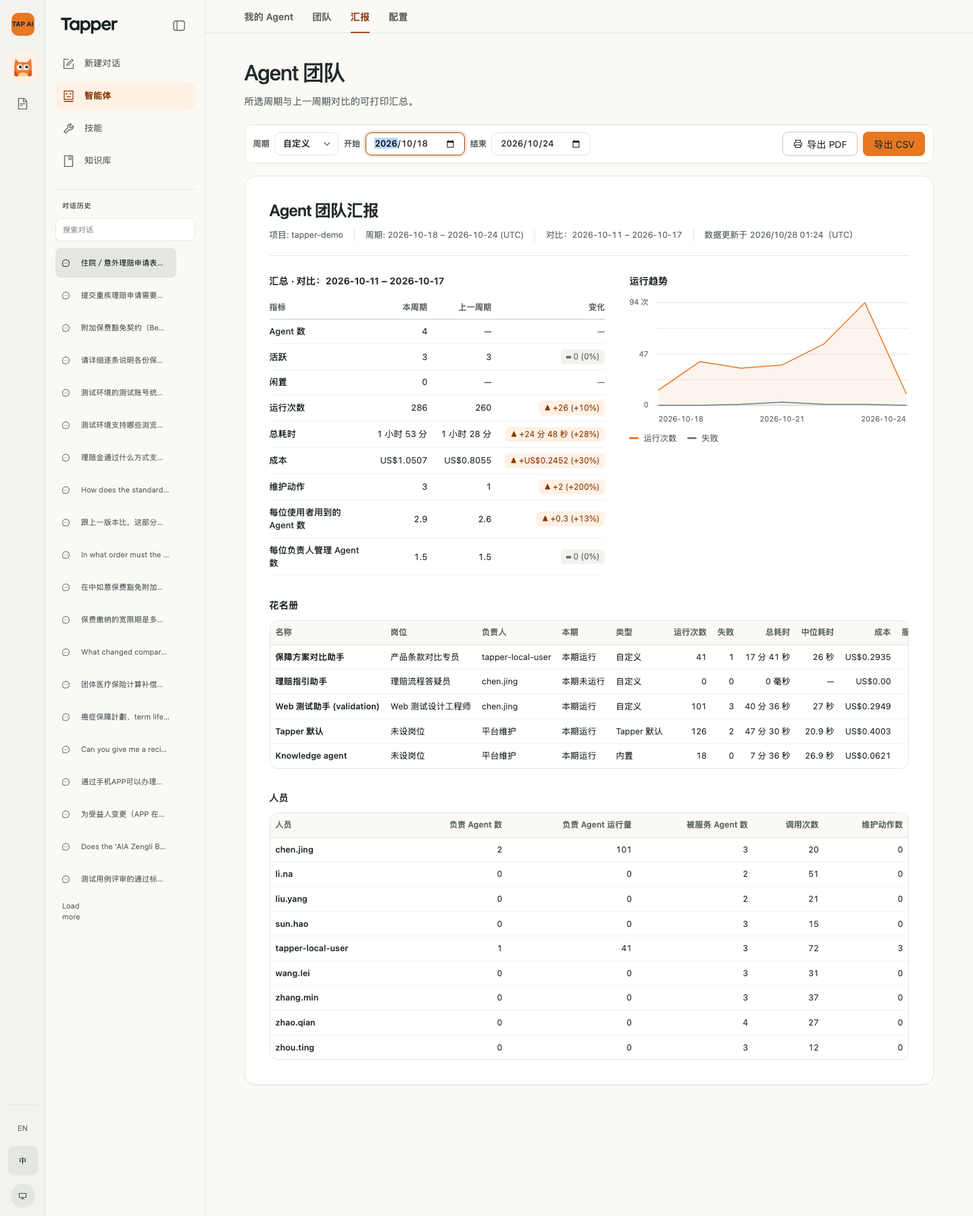
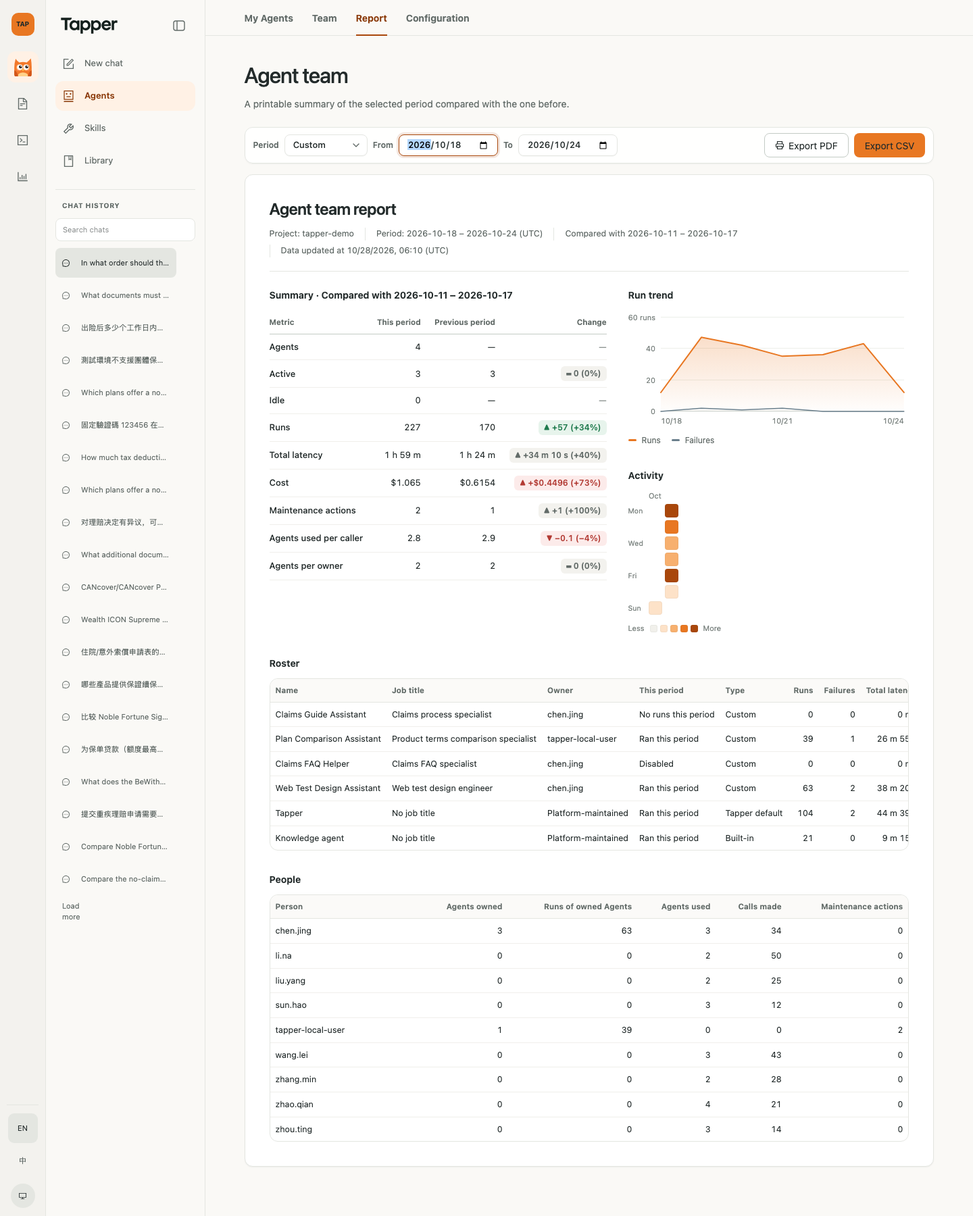
docs: record the agents dashboard redesign, tap shell and hong kong demo data

diff --git a/docs/guides/2026-10-28-agent-team-business-demo.md b/docs/guides/2026-10-28-agent-team-business-demo.md
@@ -1,92 +1,100 @@
 # Agent 团队视图业务流程演示
 
-创建日期：2026-10-28。归属[产品路线图](../superpowers/plans/2026-10-01-product-roadmap.md) V2.1。接续 [Agent 团队视图业务验证交接](2026-10-27-agent-team-business-validation-handoff.md)；口径以 [Agent 团队视图设计](../superpowers/specs/2026-10-22-agent-team-view-design.md)为准。
+创建日期：2026-10-28（当日两轮更新）。归属[产品路线图](../superpowers/plans/2026-10-01-product-roadmap.md) V2.1。接续 [Agent 团队视图业务验证交接](2026-10-27-agent-team-business-validation-handoff.md)；口径以 [Agent 团队视图设计](../superpowers/specs/2026-10-22-agent-team-view-design.md)为准。
 
-本文记录 2026-10-28 这一轮工作：对 V2.1 实现做一次完整审查，修复审查发现的问题，按"保持结构、重做视觉与交互"的方向重做 Agents 页界面，然后在本地演示环境用真实模型跑通完整业务流程，并留下实际页面截图。所有截图均来自 `make demo-dev`（`127.0.0.1:5173`）的真实页面，中文界面，1440 宽视口。
+本文记录 2026-10-28 的工作：对 V2.1 实现做一次完整审查并修复问题；按"分析平台风、浅色"重做 Agents 页面板；产品外壳改为 TAP 品牌与完整模块导航；演示库改为只用香港公开语料并重建验证数据；最后在本地演示环境用真实模型跑通完整业务流程。所有截图均来自 `make demo-dev`（`127.0.0.1:5173`）的真实页面，默认英文界面，1440 宽视口，左上角为 TAP 品牌，侧栏列出 Tapper、Test Management、Low Code Automation、Test Insights。
 
 ## 1. 业务流程演示
 
-演示角色：理赔团队负责人（演示身份 `tapper-local-user`）。目标：新建一个理赔答疑 Agent，让它服务一段时间，处理一条差评，把它交给同事，最后向管理层出一份周报。
+演示角色：理赔团队负责人（演示身份 `tapper-local-user`）。目标：用一个新的理赔答疑 Agent 替换旧的，让它服务一段时间，处理一条差评，把它交给同事，最后向管理层出一份周报。
 
-### 1.1 新建 Agent 并设置岗位
+### 1.1 新建 Agent，停用旧助手
 
-在"智能体 → 配置"新建 `理赔指引助手`，描述与系统提示词限定它只依据理赔指引与理赔表格作答。
+在 Agents → Configuration 新建 `Claims Guide Assistant`，描述与系统提示词限定它只依据理赔指引与理赔表格作答。
 
-![新建 Agent](../assets/agent-team-demo-2026-10-28/01-config-new-agent.png)
+![New agent](../assets/agent-team-demo-2026-10-28/01-config-new-agent.png)
 
-保存后切到"团队"标签，新成员立即出现在花名册，状态为"闲置"（还没有运行），负责人默认是创建人。
+同一页停用被替换的 `Claims FAQ Helper`，停用会写入一条"停用"维护动作。
 
-![新成员加入花名册](../assets/agent-team-demo-2026-10-28/02-team-card-joined.png)
+![Legacy helper disabled](../assets/agent-team-demo-2026-10-28/01b-config-legacy-disabled.png)
 
-打开档案的"设置"页填写岗位"理赔流程答疑员"，保存后有明确的成功提示。
+切到 Team，新成员立即出现在排行表，状态 Idle（还没有运行），负责人默认是创建人。
 
-![设置岗位](../assets/agent-team-demo-2026-10-28/03-profile-settings-job-title.png)
+![New member on the roster](../assets/agent-team-demo-2026-10-28/02-team-card-joined.png)
+
+打开档案的 Settings 填写岗位 "Claims process specialist"，保存后有成功提示。
+
+![Job title saved](../assets/agent-team-demo-2026-10-28/03-profile-settings-job-title.png)
 
 ### 1.2 用这个 Agent 对话并评价
 
-新建对话，选择 3 个理赔来源（理赔指引、重疾理赔表、住院／意外理赔表）和 `理赔指引助手`，提问"提交重疾理赔申请需要准备哪些材料？理赔金通过什么方式支付？"。真实模型（qwen-plus）返回带引用的回答，对第一轮点"没帮助"并留空说明。
+新建对话，选择 3 个理赔来源（理赔指引、重疾理赔表、住院／意外理赔表）和 `Claims Guide Assistant`，提问 "What documents must be submitted with a critical illness claim, and how is the claim benefit paid out?"。真实模型（qwen-plus）返回带引用的回答，对第一轮点 Not helpful。
 
-![第一轮回答并点差评](../assets/agent-team-demo-2026-10-28/04-chat-first-answer-not-helpful.png)
+![First answer rated not helpful](../assets/agent-team-demo-2026-10-28/04-chat-first-answer-not-helpful.png)
 
-第二轮追问"住院／意外理赔申请表的两个部分应该按什么顺序填写？分别由谁填写？"。
+第二轮追问 "In what order should the two parts of the hospital and accident claim form be completed, and who fills in each part?"。
 
-![第二轮回答](../assets/agent-team-demo-2026-10-28/05-chat-second-answer.png)
+![Second answer](../assets/agent-team-demo-2026-10-28/05-chat-second-answer.png)
 
-### 1.3 团队页看到产出
+### 1.3 团队面板看到产出
 
-回到"团队"：卡片显示周期内运行 2 次、服务人数 1、满意度"样本不足"（评分不足 10 条），最近运行时间来自运行数据。
+Team 页顶部是主指标卡（运行、失败、成本、总耗时、活跃）与变化徽章、按 Agent 堆叠的运行趋势、运行热力日历；下面是排行表、人员排行与组织架构图。
 
-![团队总览](../assets/agent-team-demo-2026-10-28/00-team-overview.png)
+![Team overview](../assets/agent-team-demo-2026-10-28/00-team-overview.png)
 
-![新 Agent 卡片](../assets/agent-team-demo-2026-10-28/06-team-card-after-runs.png)
+![Card view](../assets/agent-team-demo-2026-10-28/00b-team-cards.png)
 
-档案"工作量"页给出趋势、主指标与调用量：2 次运行、失败 0、中位耗时 17.7 秒、成本 US$0.0063、模型调用 8 次。
+新成员的行显示周期内运行 2 次、服务 1 人、满意度 "Not enough ratings"（评分不足 10 条）。
 
-![工作量](../assets/agent-team-demo-2026-10-28/07-profile-workload.png)
+![New agent after two runs](../assets/agent-team-demo-2026-10-28/06-team-card-after-runs.png)
+
+档案的 Basics 与 Workload 页给出入职日期、负责人、服务对象排行、指标卡、趋势与调用量。
+
+![Profile basics](../assets/agent-team-demo-2026-10-28/07a-profile-basic.png)
+
+![Profile workload](../assets/agent-team-demo-2026-10-28/07-profile-workload.png)
 
 ### 1.4 处理差评，履历留痕
 
-"待处理反馈"页列出那条差评（评价人、时间），填写处理说明"已补充理赔材料清单的条款引用，并要求逐条列出。"后标记已处理，待处理数归零。
+Pending feedback 页列出那条差评（评价人、时间），填写处理说明后 Mark as resolved，待处理数归零；History 页出现 "Feedback resolved" 与说明。
 
-![待处理反馈](../assets/agent-team-demo-2026-10-28/08-profile-pending-feedback.png)
+![Pending feedback](../assets/agent-team-demo-2026-10-28/08-profile-pending-feedback.png)
 
-![已处理](../assets/agent-team-demo-2026-10-28/09-profile-feedback-resolved.png)
+![Resolved](../assets/agent-team-demo-2026-10-28/09-profile-feedback-resolved.png)
 
-"履历"页出现"处理差评"动作与说明。
+![History](../assets/agent-team-demo-2026-10-28/10-profile-history.png)
 
-![履历](../assets/agent-team-demo-2026-10-28/10-profile-history.png)
+### 1.5 My Agents
 
-### 1.5 我的 Agent
+My Agents 把等我处理的反馈置顶，下面是我负责的 Agent 与为我服务的 Agent。
 
-"我的 Agent"把等我处理的反馈置顶，下面是我负责的 Agent 与为我服务的 Agent。
+![My Agents](../assets/agent-team-demo-2026-10-28/11-my-agents.png)
 
-![我的 Agent](../assets/agent-team-demo-2026-10-28/11-my-agents.png)
+### 1.6 排行表排序与组织架构图
 
-### 1.6 表格视图与组织架构图
+排行表按运行次数排序；人员排行列出每个人的调用量与负责、使用、维护数量。组织架构图按负责人分组，选中一个人后用虚线显示为其服务的 Agent。
 
-花名册切到表格，按运行次数排序；人员表列出每个人负责、使用与维护的数量。组织架构图按负责人分组，选中一个人后用虚线显示为其服务的 Agent。
+![Sorted table](../assets/agent-team-demo-2026-10-28/12-team-table-sorted.png)
 
-![表格视图](../assets/agent-team-demo-2026-10-28/12-team-table-sorted.png)
-
-![组织架构图高亮](../assets/agent-team-demo-2026-10-28/13-org-chart-highlight.png)
+![Org chart](../assets/agent-team-demo-2026-10-28/13-org-chart-highlight.png)
 
 ### 1.7 周报：10-18 至 10-24，对比上一周
 
-"汇报"选自定义周期 2026-10-18 至 2026-10-24，自动对比 2026-10-11 至 2026-10-17。本周期运行 286 次（上一周期 260，+10%），总耗时 1 小时 53 分（+28%），成本 US$1.0507（+30%），维护动作 3 次。花名册显示"本期运行／本期未运行"，新建的 `理赔指引助手` 在该周期内未运行。
+Report 选自定义周期 2026-10-18 至 2026-10-24，自动对比 2026-10-11 至 2026-10-17。本周期运行 227 次（上一周期 170，+34%），总耗时 1 小时 59 分（+40%），成本 US$1.065（+73%），维护动作 2 次。花名册显示 "Ran this period / No runs this period"，停用的 `Claims FAQ Helper` 显示 Disabled。
 
-![周报](../assets/agent-team-demo-2026-10-28/14-report-week.png)
+![Weekly report](../assets/agent-team-demo-2026-10-28/14-report-week.png)
 
-"导出 PDF"走浏览器打印，A4 横向版式；"导出 CSV"得到含 `roster.csv`、`people.csv`、`trend.csv` 的 zip（UTF-8 BOM，趋势文件首行注明粒度）。
+Export PDF 走浏览器打印（A4 横向）；Export CSV 得到含 `roster.csv`、`people.csv`、`trend.csv` 的 zip（UTF-8 BOM，趋势文件首行注明粒度）。
 
-![打印版](../assets/agent-team-demo-2026-10-28/15-report-print.png)
+![Print layout](../assets/agent-team-demo-2026-10-28/15-report-print.png)
 
 ### 1.8 转交负责人
 
-在"设置"页把 `理赔指引助手` 转交给 `chen.jing`，页面显示当前负责人与成功提示；履历新增"转交负责人"。
+在 Settings 把 `Claims Guide Assistant` 转交给 `chen.jing`，页面显示当前负责人与成功提示；History 新增 "Owner transferred"。
 
-![转交负责人](../assets/agent-team-demo-2026-10-28/16-profile-owner-transferred.png)
+![Owner transferred](../assets/agent-team-demo-2026-10-28/16-profile-owner-transferred.png)
 
-![转交后的履历](../assets/agent-team-demo-2026-10-28/17-profile-history-after-transfer.png)
+![History after transfer](../assets/agent-team-demo-2026-10-28/17-profile-history-after-transfer.png)
 
 ## 2. 审查结论
 
@@ -100,16 +108,18 @@
 | 后端 | Langfuse 不可用时 `servedAvg` 返回 0 而不是空 | 返回 `null`，契约改为可空 |
 | 后端 | CSV 导出未防公式注入（Agent 名称、岗位可由用户填写） | 以 `=`、`+`、`-`、`@`、制表符、回车开头的文本单元格加前导单引号 |
 | 前端 | 运行数据不可用时档案工作量图、服务对象、我的 Agent、汇报趋势显示 0 或"无"而非"运行数据暂不可用" | 按 `runtimeStatus` 渲染不可用标记 |
-| 前端 | 时长格式会出现"1 m 60 s""59 m 60 s" | 先取整到秒再拆分；单位改为中英文案 |
+| 前端 | 时长格式会出现 "1 m 60 s" "59 m 60 s" | 先取整到秒再拆分；单位改为中英文案 |
 | 前端 | 保存岗位、转交负责人没有成功提示，设置页不显示当前负责人 | 加成功提示与当前负责人 |
 
-## 3. 其余修复
+## 3. 其余修复与界面重做
 
 后端：极端日期（如 `9999-12-31`）返回 500 改为 400 `period_invalid`；冷缓存时统计、近 30 天、趋势、最近运行改为并发加载，并对同一键的并发请求去重，期限耗尽导致的超时不再负缓存 30 秒；Tapper 默认有待处理反馈时即使近期无运行也进入花名册；Skill 升级分类不再依赖绑定顺序；`trend.csv` 的粒度与不可用标记合写在首行，并新增 `bucket_end`；履历游标拒绝类型错误的字段；迁移 0036 回滚时删除外键自动创建的索引；处理"不是待处理状态"的反馈不再写维护事件，处理说明去掉首尾空白，`tapper_default` 的处理时间改用注入时钟。
 
-前端：默认视图不再重复请求花名册；"运行数据同步中"按运行状态标注，不再把正常的空值标成同步中；趋势读数与纵轴单位统一为"次"；卡片迷你趋势标明"近 30 天"；从"待我处理的反馈"打开档案直接落到"待处理反馈"页并显示反馈时间；导出 CSV 改为带加载与错误提示的请求；自定义周期在开始晚于结束时不再发请求；汇报页切换周期时显示刷新提示；筛选出错时保留筛选器；标签页支持方向键；小额成本不再显示为 US$0.00。
+前端：默认视图不再重复请求花名册；"运行数据同步中"按运行状态标注；趋势读数与纵轴单位统一；从"待我处理的反馈"打开档案直接落到待处理反馈页并显示反馈时间；导出 CSV 改为带加载与错误提示的请求；自定义周期在开始晚于结束时不再发请求；汇报页切换周期时显示刷新提示；筛选出错时保留筛选器；标签页支持方向键；小额成本不再显示为 US$0.00；Tapper 默认成员的名称按界面语言显示（英文 "Tapper"）。
 
-界面重做（保持信息架构）：顶部标签改为下划线式；指标区分成四个主指标与一行次指标；卡片改为员工名片式（头像、岗位、状态点、整宽迷你趋势、三格统计、脚注）；表格统一表头、数字右对齐、首列固定；组织架构图按负责人分组，仅在选中人员时画"使用"虚线；档案改为右侧滑出面板；汇报页改为纸张式版式，对比表用 ▲▼ 与柔色底，趋势图加网格线；加载用骨架屏；打印样式改为 A4 横向、不小于 9px、隐藏页头与控件。
+界面重做（分析平台风、浅色，参考 PostHog、Vercel Analytics、LangSmith、Linear 与 GitHub 贡献日历）：主指标卡带与上一周期的变化徽章和迷你趋势，数字首次加载时计数动画（遵循减少动效偏好）；按 Agent 堆叠的运行趋势，可切换指标、开关图例、十字线读数；运行热力日历；花名册默认为排行表（名次、占比条、满意度环、服务对象头像组、迷你趋势、相对时间），卡片视图保留；人员默认排行条；组织架构图按负责人分组、紧凑芯片；档案改为指标卡 + 趋势 + 服务对象排行 + 带图标的维护时间线；汇报页加变化着色、趋势网格线与热力日历；骨架屏加载；打印 A4 横向、不小于 9px。
+
+产品外壳：左上角品牌为 TAP（Tapper 只是 TAP 的一部分），产品导航列出 Tapper、Test Management、Low Code Automation、Test Insights；后两者在本应用内进入时提示在 TAP 工作区中打开。默认语言为英文。
 
 ## 4. 验证记录（2026-10-28）
 
@@ -119,25 +129,30 @@
 | 后端 Ruff、格式检查、mypy | 通过（mypy 304 个源文件无问题） |
 | 契约导出与前端契约检查 | 通过；`contracts/openapi/api.json` 与生成的 `schema.ts` 更新了 `servedAvg` 可空、`preset` 参数、`resolvedAt`／`resolvedBy` 可空 |
 | 隔离 MySQL 集成测试（`TAP_RUN_MYSQL_INTEGRATION=1`，`test_agent_team_store`、`test_agent_team_migration`、`test_agent_team_export`、`test_ai_asset_catalog`） | 44 通过（含新增的 0036 回滚再升级用例） |
-| 前端 Vitest 全量 | 983 个用例中 982 通过；`TapperWorkspace.chatControls.test.tsx` 1 个用例在全量并行时失败、单独运行通过，与本功能无关 |
-| 前端 ESLint、Prettier、tsc | 通过 |
+| 前端 Vitest 全量 | 第一轮 983 个用例中 982 通过（`TapperWorkspace.chatControls.test.tsx` 1 个用例在全量并行时失败、单独运行通过、与本功能无关）；面板重做与外壳改动后 1013 个用例全部通过 |
+| 前端 ESLint、Prettier、tsc、架构检查 | 通过 |
 | 真实页面流程（第 1 节） | 通过，浏览器无控制台错误、无 4xx/5xx 请求 |
-| `make check` | 通过 |
-| `make demo-e2e` | 通过（见 4.1） |
+| `make check` | 第一轮通过；第二轮见 4.1 |
+| `make demo-e2e` | 第一轮通过；第二轮见 4.1 |
+| 数据重建核对（`~/tap-synthetic-2026-10-28/verify.py`） | 252 项全部一致 |
 
-### 4.1 `make demo-e2e`
+### 4.1 第二轮门禁（面板重做、外壳改动、数据重建之后）
 
-通过：浏览器旅程（含 agent-team 旅程）与持久化检查全部通过，隔离栈的后端校验 32 项通过。前两次启动分别因后台任务 10 分钟上限被中断、以及被中断的运行遗留 `18000` 端口与 `$TMPDIR/tap-tapper-e2e.lock` 锁目录而失败；清理后重跑通过。
+- `make check`：通过。
+- `make demo-e2e`：通过（浏览器旅程含 agent-team 旅程，隔离栈后端校验 32 项通过）。
+- 前端 Vitest 全量 1013 个用例通过；外壳改动把"只显示 TAP AI 模块"的 3 处旧断言改为完整的 TAP 模块列表，并新增非 AI 模块的占位提示用例。
 
 ## 5. 演示数据与清理
 
-- 新增 Agent `理赔指引助手`（`agent-698bbbd066a44725`），负责人已转交 `chen.jing`，岗位"理赔流程答疑员"。
-- 2026-10-28 的 2 轮真实运行（会话标题以"提交重疾理赔申请需要准备哪些材料"与"住院／意外理赔申请表的两个部分"开头），1 条已处理的差评，维护事件 2 条（处理差评、转交负责人）。
-- 这些数据不在 2026-10-27 交接文档第 2 节的清单内；10-18 至 10-24 周期的核对不受影响。
-- 清理：在"配置"中停用 `理赔指引助手`，经接口删除上述 2 个会话（`DELETE /api/v1/projects/tapper-demo/conversations/{id}`，带 `Origin` 头）；评分按 spec 2.3 保留。
+- 新增 Agent `Claims Guide Assistant`（`agent-0081d59bd2a54fbc`），负责人已转交 `chen.jing`，岗位 "Claims process specialist"。
+- `Claims FAQ Helper`（`agent-698bbbd066a44725`，10-27 演示创建、10-28 改为英文名）已停用，产生一条"停用"维护动作。
+- 2026-10-28 的 2 轮真实运行（会话标题以 "What documents must be submitted" 与 "In what order should the two parts" 开头），1 条已处理的差评，维护事件 3 条（停用、处理差评、转交负责人）。
+- 这些数据不在交接文档第 2 节的核对清单内（核对在演示之前完成）；10-11 至 10-24 两周的数字不受影响。
+- 清理：在 Configuration 中停用 `Claims Guide Assistant`，经接口删除上述 2 个会话（`DELETE /api/v1/projects/tapper-demo/conversations/{id}`，带 `Origin` 头）；评分按 spec 2.3 保留。
 
 ## 6. 已知限制
 
-- 运行数据缓存 5 分钟，不同查询的缓存时间可能不同：新 Agent 刚运行后的几分钟内，卡片可能已显示运行次数但"最近运行"仍为"—"，"数据更新于"显示的是最早一项的时间；5 分钟后自动一致。
-- 演示身份固定，组织架构图与人员表里的其他人员来自 2026-10-25 装入的仿真数据。
+- 运行数据缓存 5 分钟，不同查询的缓存时间可能不同：新 Agent 刚运行后的几分钟内，行里可能已显示运行次数但"最近运行"仍为"—"，"数据更新于"显示的是最早一项的时间；5 分钟后自动一致。截图在缓存刷新后重拍。
+- 近 30 天的变化徽章在重建后的数据上显示 "— no baseline"：上一个 30 天没有数据。
+- 演示身份固定，组织架构图与人员表里的其他人员来自仿真数据。
 - 汇报页抬头仍显示项目 ID，人员仍显示 `actor_id`（V4 接入身份前没有显示名）。

diff --git a/docs/superpowers/specs/2026-10-22-agent-team-view-design.md b/docs/superpowers/specs/2026-10-22-agent-team-view-design.md
@@ -240,11 +240,11 @@ Agents 页顶部四个标签：**我的 Agent**、**团队**（默认）、**汇
 
 ### 6.1 团队
 
-- 汇总栏：2.6 指标、周期选择器、"数据更新于"。
-- 花名册：卡片视图（默认）与表格视图。卡片像员工名片：头像（名称首字）、名称、岗位、直属负责人、状态（活跃、闲置、已停用）、近 30 天运行趋势、满意度、主要服务对象（前 3 位）、最近运行、最近维护。按负责人、状态、类型筛选；表格各列可排序（含岗位、负责人、状态、类型，由服务端排序白名单支持，空值排最后，并列按名称顺序稳定）。
-- 负责人显示：内置 Agent 与 Tapper 默认显示"平台维护"（花名册、档案、汇报页），只是展示，接口中负责人仍为空。
+- 汇总栏：2.6 指标、周期选择器、"数据更新于"。2026-10-28 起按分析平台式面板呈现：主指标卡（运行次数、失败、成本、总耗时、活跃）带与上一周期的变化徽章（上一周期取自汇报接口的 `previousPeriod`，无基线时显示"—"）与迷你趋势；次指标一行；按 Agent 堆叠的运行趋势（前 5 名 + 其他，可切换运行／失败／成本／总耗时，图例可开关，十字线读数）；按日的运行热力日历（周或月粒度时每桶一格）。
+- 花名册：排行表视图（默认，2026-10-28 起）与卡片视图。排行表列：名次、名称与岗位、负责人、状态、周期内运行（带占比条）、满意度（环形）、中位耗时、成本、服务对象（头像组）、近 30 天迷你趋势、最近运行（相对时间，悬停显示绝对时间）；其余可排序字段（岗位、类型、失败、总耗时、最近维护、待处理反馈、入职日期）通过排序菜单选择。卡片像员工名片：头像（名称首字）、名称、岗位、直属负责人、状态（活跃、闲置、已停用）、近 30 天运行趋势、满意度、主要服务对象（前 3 位）、最近运行、最近维护。按负责人、状态、类型筛选；表格各列可排序（含岗位、负责人、状态、类型，由服务端排序白名单支持，空值排最后，并列按名称顺序稳定）。
+- 负责人显示：内置 Agent 与 Tapper 默认显示"平台维护"（花名册、档案、汇报页），只是展示，接口中负责人仍为空。Tapper 默认成员的名称由前端按语言显示（英文 "Tapper"，中文 "Tapper 默认"），接口中的 `name` 不变。
 - 组织架构图：人节点实线连负责的 Agent，虚线连服务的 Agent；点击一个人高亮其关系。
-- 人员表：2.5 各列，可排序。
+- 人员表：2.5 各列，可排序；默认以调用次数排行条呈现（带负责／使用／维护数标签），可切换为明细表。
 
 ### 6.2 Agent 档案（抽屉）
 
@@ -260,7 +260,7 @@ Agents 页顶部四个标签：**我的 Agent**、**团队**（默认）、**汇
 
 ### 6.4 汇报
 
-- 可打印的报告页：选择周期（默认上月），固定版式展示汇总、趋势、花名册、人员表与上一周期对比。报告页的花名册不显示状态，显示"本期运行"（周期内运行次数 ≥ 1）或"本期未运行"；已停用的 Agent 仍显示"已停用"。
+- 可打印的报告页：选择周期（默认上月），固定版式展示汇总、趋势（含运行热力日历）、花名册、人员表与上一周期对比；变化列用 ▲▼ 与按好坏着色的柔色底。报告页的花名册不显示状态，显示"本期运行"（周期内运行次数 ≥ 1）或"本期未运行"；已停用的 Agent 仍显示"已停用"。
 - 上一周期：上月对比再上一个自然月；本月（1 日至今天）对比上月 1 日至同一天（上月没有该日时取月末）；近 7 天、近 30 天与自定义对比紧邻其前的等长区间。上一周期为 0 时变化显示"—"。
 - 导出 PDF 使用浏览器打印，提供打印样式；导出 CSV 调用 `agent-team/export`。
 

diff --git a/docs/superpowers/plans/2026-10-01-product-roadmap.md b/docs/superpowers/plans/2026-10-01-product-roadmap.md
@@ -61,7 +61,7 @@ flowchart LR
 
 | 项 | 内容 | 状态 |
 | --- | --- | --- |
-| V2.1 | Agent 团队视图：Agent 人事档案与组织架构图、Langfuse 运行数据、维护履历、汇报页与导出 | 工程完成（[plan](2026-10-23-agent-team-view.md)；[spec](../specs/2026-10-22-agent-team-view-design.md)）；2026-10-28 审查修复与界面重做合入（[演示](../../guides/2026-10-28-agent-team-business-demo.md)）；待业务验证（spec 7.4） |
+| V2.1 | Agent 团队视图：Agent 人事档案与组织架构图、Langfuse 运行数据、维护履历、汇报页与导出 | 工程完成（[plan](2026-10-23-agent-team-view.md)；[spec](../specs/2026-10-22-agent-team-view-design.md)）；2026-10-28 审查修复、面板重做（分析平台式）与香港语料数据重建合入（[演示](../../guides/2026-10-28-agent-team-business-demo.md)）；待业务验证（spec 7.4） |
 | LangGraph 收尾 | 由 V1 能力 6 移入（2026-10-23）：PR 6 ⑥ 可信知识（依据支撑校验、诱导胡编子集门禁）；PR 7 ⑤ 长任务（`document.read_section` / `document.analyse`、durable 子图、`interrupt` / `resume`、进度与确认卡片） | 已设计（[spec](../specs/2026-10-14-tapper-langgraph-orchestration-design.md) 第 9 节；V2 第二个实施，在 V2.1 之后、V2.2 主动框架之前） |
 | V2.2 | 主动框架、TAP AI 内部剧本（知识缺口、Skill 影响、纠正与 FAQ 沉淀、流程沉淀为 Skill）、动态入口与设置 | 已设计 |
 | V2.3 | TAP AI 与平台事件契约 ADR、平台事件接入、Test Insights 失败与 flaky 分析、悬浮助手提示 | 已设计 |
